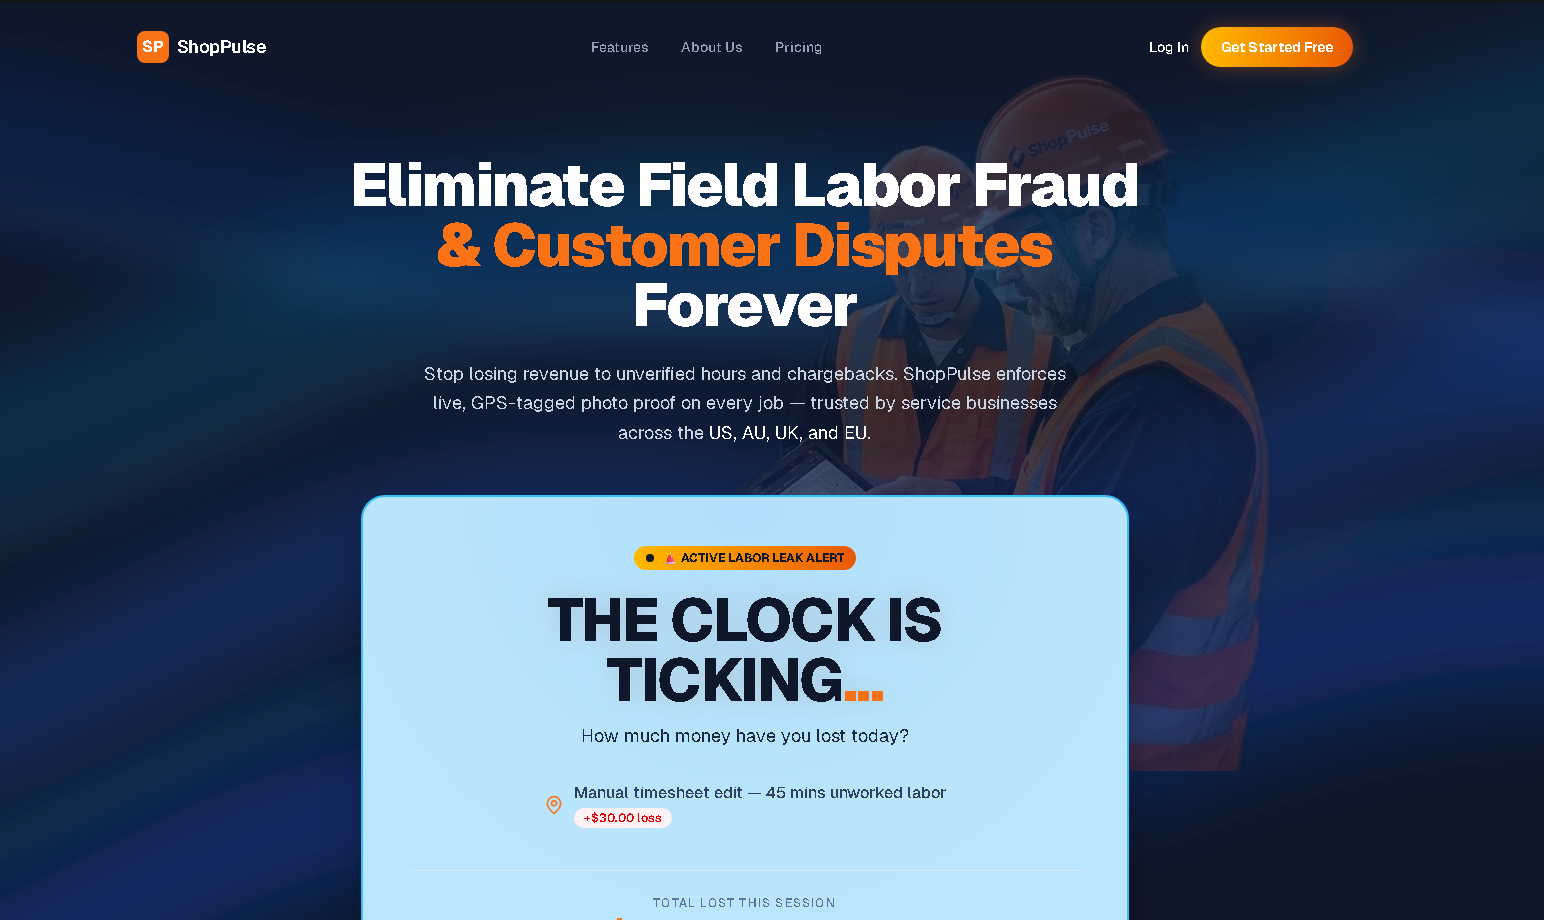
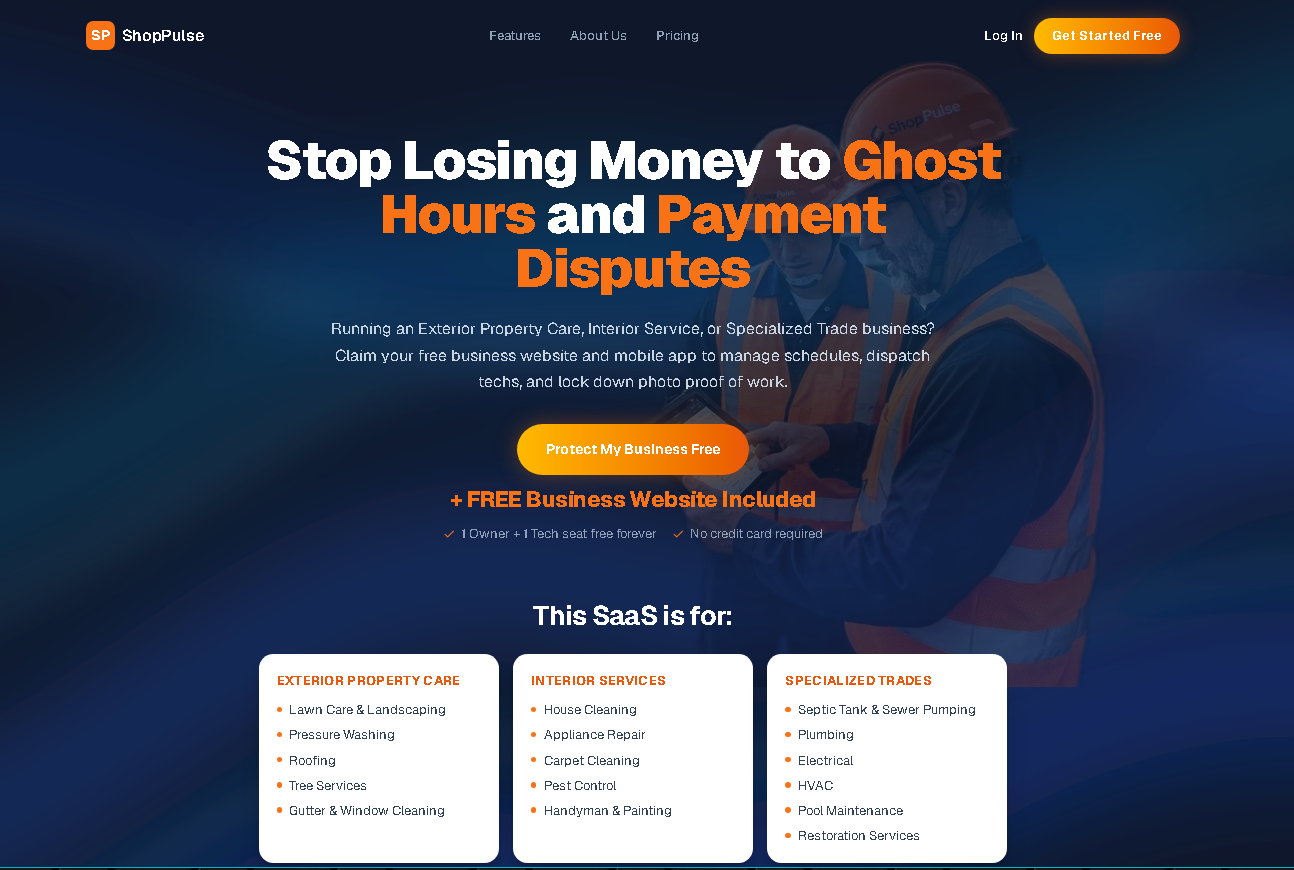
commit 3rd today 091826
changed shoppulse image and gradient

diff --git a/css/main.css b/css/main.css
@@ -711,9 +711,9 @@ body {
     background-image:
         linear-gradient(
             90deg,
-            rgba(8, 11, 18, 0.97) 0%,
-            rgba(8, 11, 18, 0.90) 45%,
-            rgba(8, 11, 18, 0.72) 100%
+            rgba(4, 5, 8, 0.77) 0%,
+            rgba(4, 5, 18, 0.60) 45%,
+            rgba(4, 15, 18, 0.52) 100%
         ),
         url("../assets/images/projects/shopulse-bg.png");
 }
